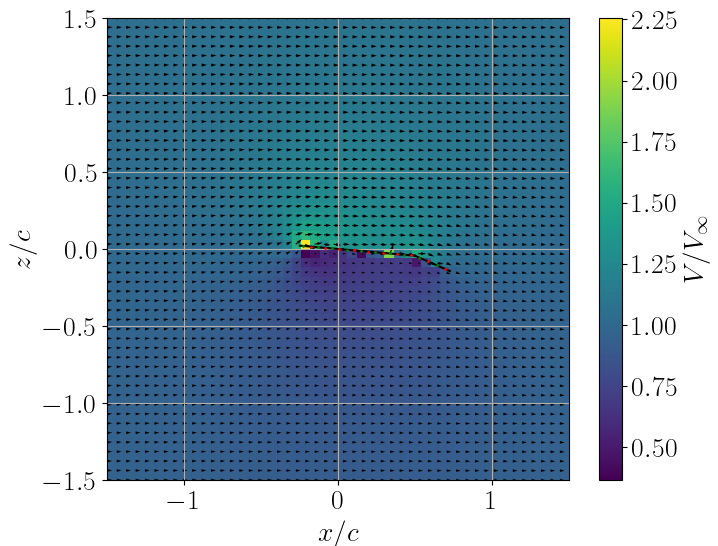
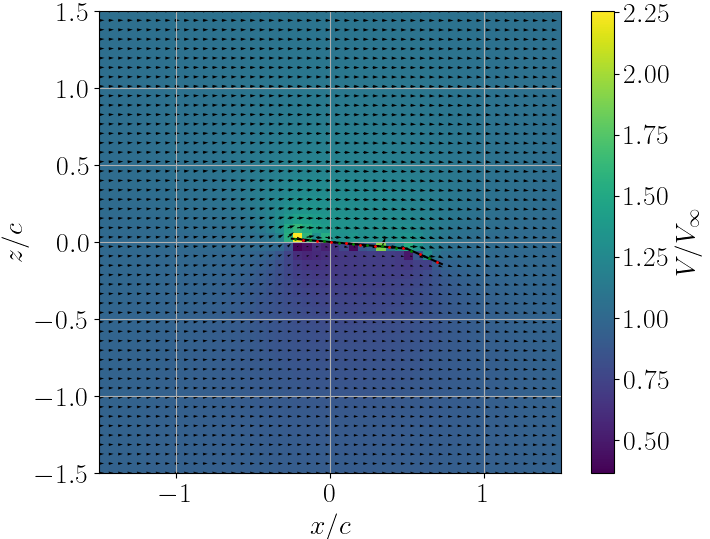
images

diff --git a/main.py b/main.py
@@ -18,9 +18,9 @@ rotation_point = 0.25 * chord   # rotation point of airfoil
 Nx = 100                        # number of elements in x-direction                     (UNSTEADY)
 Nz = 40                         # number of elements in z-direction                     (UNSTEADY)
 Nt = 200                        # number of time steps                                  (UNSTEADY)
-dt = 0.00628318531                     # time step [sec]                                       (UNSTEADY)
+dt = 0.01                       # time step [sec]                                       (UNSTEADY)
 A_pitch = 5                     # pitch amplitude (sinusoidal pitching) [degrees]       (UNSTEADY)
-kappa = 0.05                    # reduced frequency                                     (UNSTEADY)
+kappa = 0                       # reduced frequency                                     (UNSTEADY)
 shed_vortex_factor = 0.25       # between 0.2 and 0.3                                   (UNSTEADY)
 flap_chord = 0.25               # flap length [1/c]
 beta_0 = 20                     # flap angle [degrees] 
